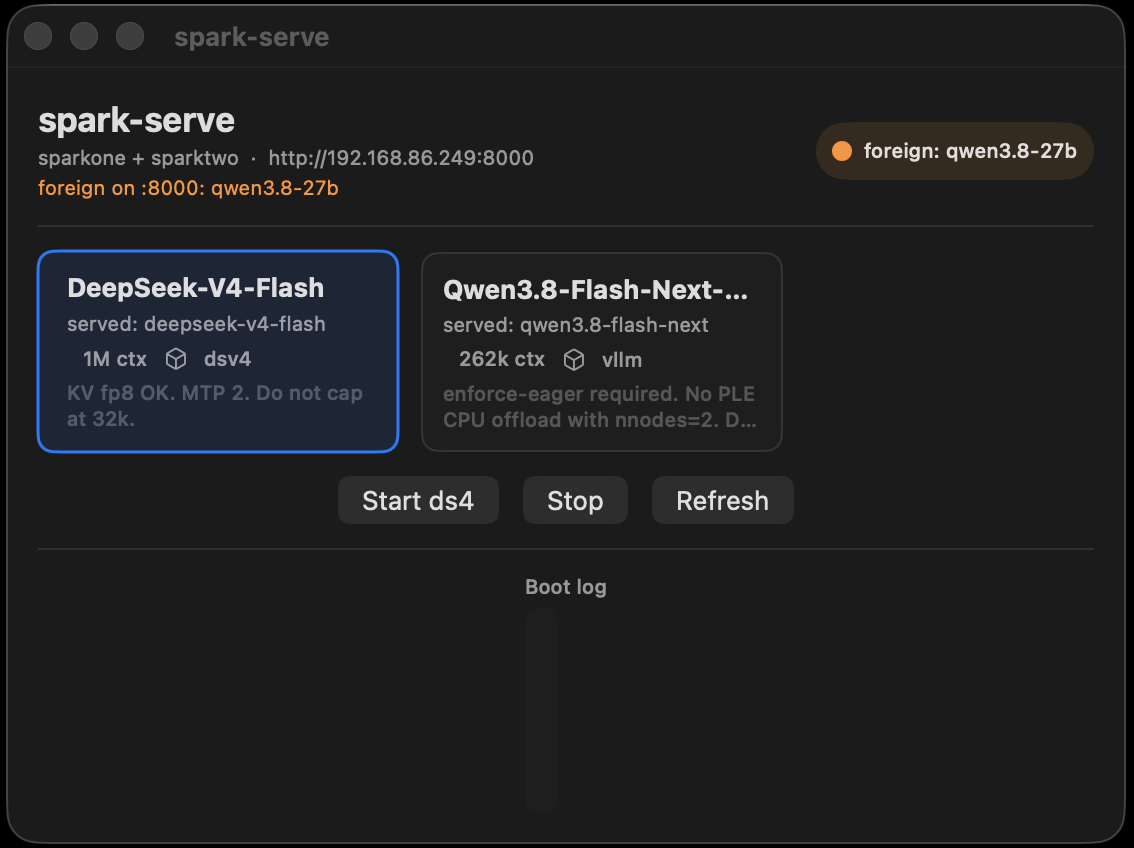
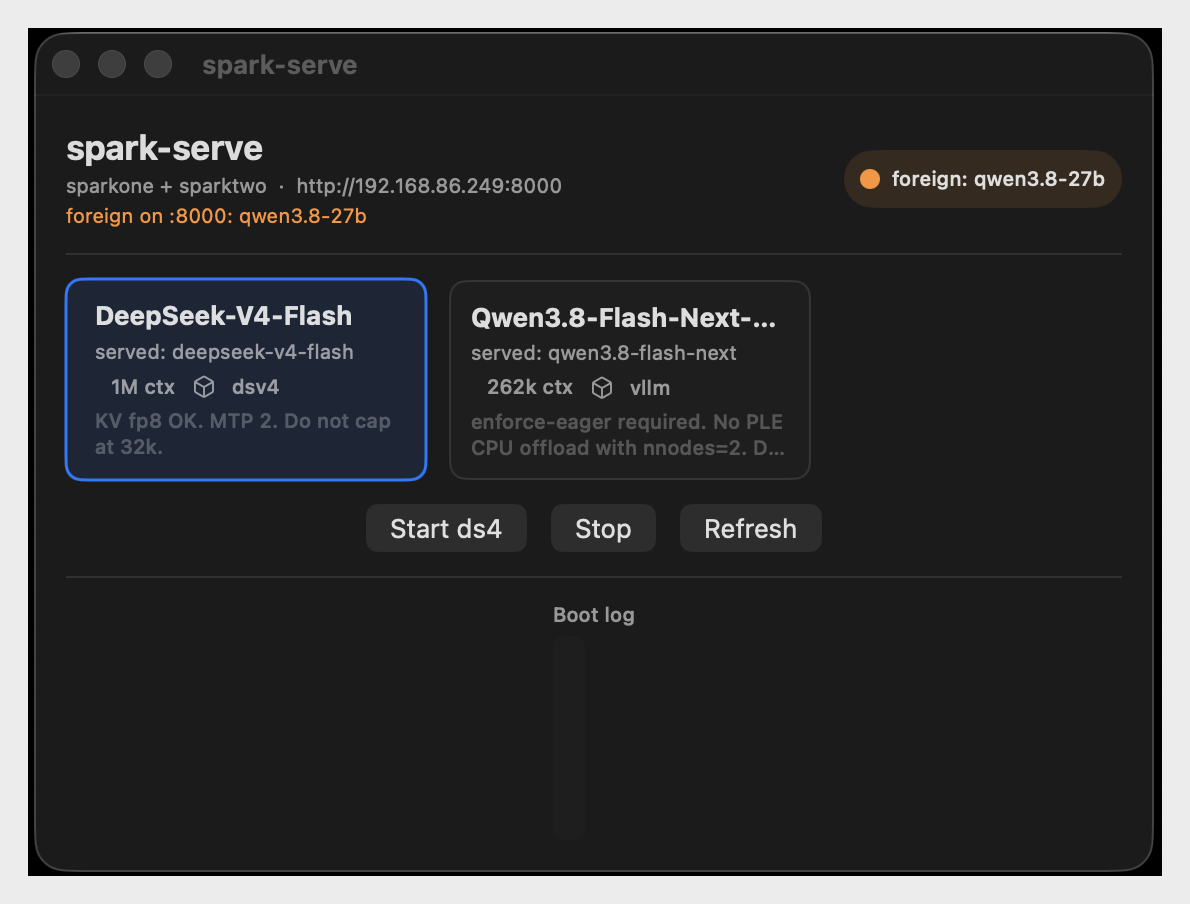
Show the GUI screenshot with a light matte and an HTML img tag.
Dark-on-dark made the previous PNG easy to miss on GitHub dark mode.

diff --git a/README.md b/README.md
@@ -7,7 +7,9 @@ The live OpenAI-compatible endpoint stays on the head node's LAN port 8000.
 All SSH / docker / NCCL work lives in the Python CLI. The GUI is a thin
 `Process` wrapper around that CLI.
 
-![spark-serve GUI](docs/gui.png)
+<p align="center">
+  <img src="docs/gui.png" alt="spark-serve GUI: catalog cards, Start/Stop, foreign occupant on port 8000" width="720">
+</p>
 
 ```
 cp models.example.toml models.toml   # then edit [cluster]
